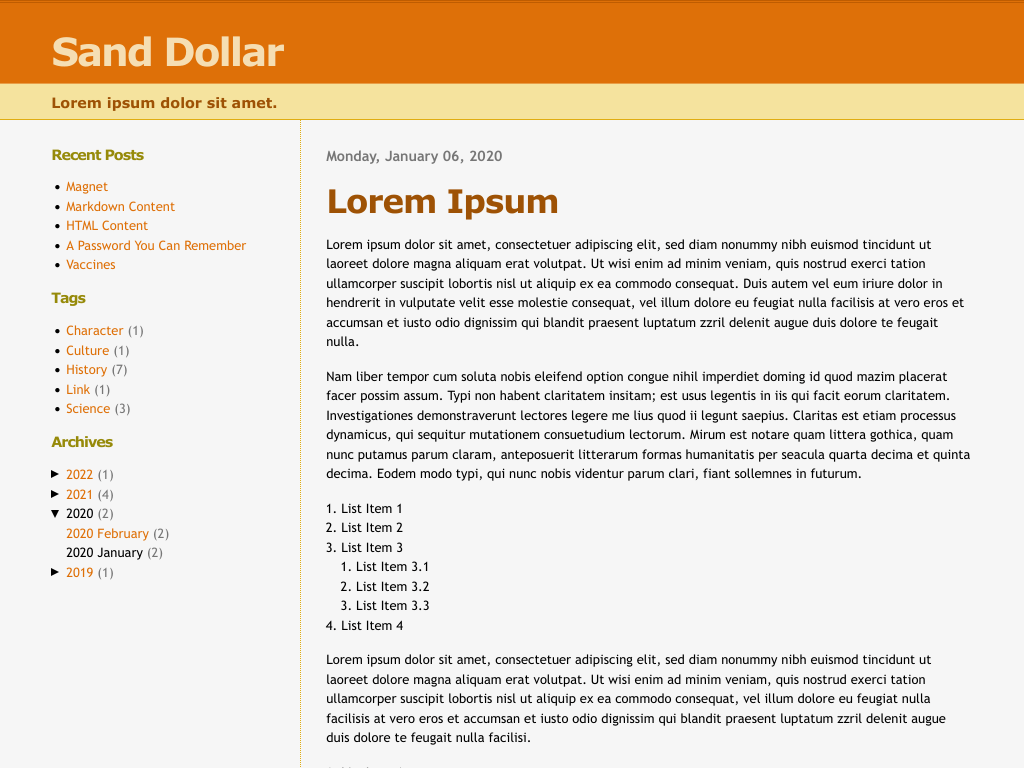
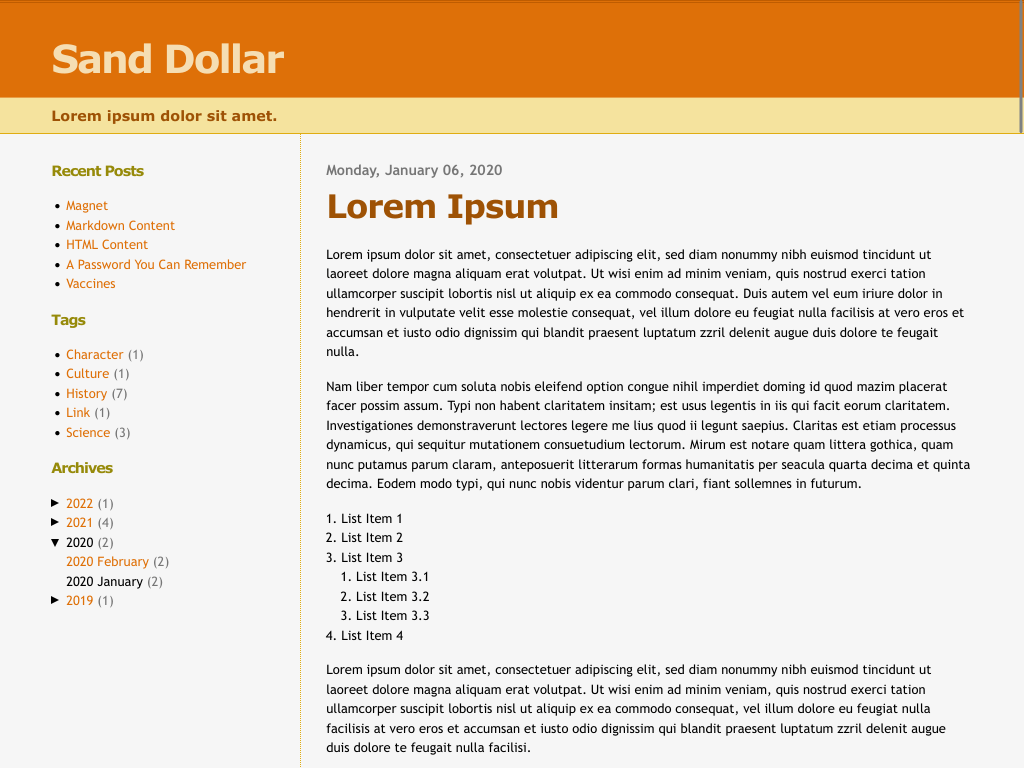
Update

Changed region(s): [[0.0, 0.0, 1.0, 1.0]]

diff --git a/index.min.css b/index.min.css
@@ -1,1 +1,1 @@
-/*! Originally developed by the Blogger Team <https://www.blogger.com> on 23 February 2004. */*{background:0 0;border:0;box-sizing:border-box;color:inherit;font:inherit;margin:0;padding:0;text-align:inherit;text-decoration:none;word-wrap:break-word}:root{background:#f6f6f6;color:#000;font:400 13px/1.5 "Trebuchet MS",Trebuchet,Verdana,Geneva,sans-serif}[role=link],a{color:#de7008}[role=link] img,a img{background:red;padding:4px}[role=link]:focus,[role=link]:hover,a:focus,a:hover{color:#e0ad12;text-decoration:underline}[aria-current][role=link],[aria-disabled][role=link],a[aria-current],a[aria-disabled]{color:inherit;cursor:inherit;text-decoration:none}[aria-current][role=link]:visited,[aria-disabled][role=link]:visited,a[aria-current]:visited,a[aria-disabled]:visited{color:inherit}abbr{cursor:help}b,dt,h1,h2,h3,h4,h5,h6,strong,th{font-weight:700}dfn,em,i,var{font-style:italic}[role=deletion],del,s{text-decoration:line-through}[role=insertion],ins,u{text-decoration:underline}blockquote{font-size:1.185rem;margin-left:1.15rem;margin-right:1.15rem}caption,figcaption{color:#777;margin:.5rem 0 0;text-align:center}code{color:#9e5205;font-family:"Courier New",Courier,monospace}details summary{display:block;padding-left:1.15rem;position:relative;text-decoration:none!important}details summary::before{border-bottom:4px solid transparent;border-left:8px solid;border-right:0 solid transparent;border-top:4px solid transparent;content:"";height:0;left:0;margin-top:-4px;position:absolute;top:50%;width:0}details[open] summary::before{border-bottom:0 solid transparent;border-left:4px solid transparent;border-right:4px solid transparent;border-top:8px solid;margin-top:-3px}details[role=tree] ul{margin-top:0;list-style:none}details[role=tree]+[role=tree],legend+*{margin-top:0}[type=checkbox][role=button],[type=color][role=button],[type=file][role=button],[type=image][role=button],[type=radio][role=button],[type=range][role=button],button[type=checkbox],button[type=color],button[type=file],button[type=image],button[type=radio],button[type=range],details summary,input[type=checkbox],input[type=color],input[type=file],input[type=image],input[type=radio],input[type=range],label,select{cursor:pointer;user-select:none}dl,ol,ul{margin-left:1.15rem}dl{margin-right:1.15rem}fieldset{border:1px solid #e0ad12;padding:1.15rem}figure{text-align:center}figure img{display:block}h1,h2,h3,h4,h5,h6{font-family:Verdana,Geneva,sans-serif;letter-spacing:-1px;line-height:1.15}h1{font-size:310%}h2{font-size:250%}h3{font-size:200%}h4{font-size:160%}h5{font-size:130%}h6{font-size:110%}hr{border:0;border-top:1px dotted #e0ad12}legend{padding:0 .5rem}[role=mark],mark{background:#fea}img{height:auto;max-width:100%}ol{list-style:decimal}pre code{background:#f5e39e;border:1px solid #e0ad12;display:block;overflow:auto;padding:.5rem .75rem;white-space:pre-wrap}small,sub,sup{font-size:.79em}sub,sup{line-height:0}sub{vertical-align:sub}sup{vertical-align:super}table{border-collapse:collapse;table-layout:fixed;width:100%}table caption{caption-side:bottom}table td,table th{border:1px solid #e0ad12;padding:.25rem .5rem;vertical-align:top}table th{background:#f5e39e;color:#9e5205}ul{list-style:disc}audio,video{display:block;height:auto;width:100%}*+address,*+article,*+aside,*+blockquote,*+details,*+div,*+dl,*+dt,*+fieldset,*+figure,*+footer,*+form,*+h1,*+h2,*+h3,*+h4,*+h5,*+h6,*+header,*+hr,*+main,*+nav,*+ol,*+p,*+pre,*+section,*+table,*+ul{margin-top:1.15rem}[role=button],[type=button][role=button],[type=reset][role=button],[type=submit][role=button],button,button[type=button],button[type=reset],button[type=submit],input,input[type=button],input[type=reset],input[type=submit],select,textarea{accent-color:#de7008;background:#eee;border:1px solid #ccc;color:#000;display:inline-block;height:2rem;line-height:calc(2rem - 2px);outline:0;padding:0 .5rem;vertical-align:middle;width:12rem}[role=button],[type=button][role=button],[type=reset][role=button],[type=submit][role=button],button,button[type=button],button[type=reset],button[type=submit],input[type=button],input[type=reset],input[type=submit]{background:orange;border-width:0;color:#fff!important;cursor:pointer;font-weight:700;line-height:2rem;padding-left:.65rem;padding-right:.65rem;text-align:center;text-decoration:none!important;width:auto}[role=button]:focus,[role=button]:hover,button:focus,button:hover,input[type=button]:focus,input[type=button]:hover,input[type=reset]:focus,input[type=reset]:hover,input[type=submit]:focus,input[type=submit]:hover{background:#ffb93a}[role=button]::-moz-focus-inner,button::-moz-focus-inner,button[type=button]::-moz-focus-inner,button[type=reset]::-moz-focus-inner,button[type=submit]::-moz-focus-inner,input::-moz-focus-inner,input[type=button]::-moz-focus-inner,input[type=reset]::-moz-focus-inner,input[type=submit]::-moz-focus-inner{border:0;margin:0;outline:0;padding:0}[type=color][role=button],[type=image][role=button],button[type=color],button[type=image],input[type=color],input[type=image]{height:2.25rem;padding:0;width:2.25rem}[type=image][role=button],button[type=image],input[type=image]{height:auto;width:auto}[type=checkbox][role=button],[type=radio][role=button],button[type=checkbox],button[type=radio],input[type=checkbox],input[type=radio]{height:1rem;width:1rem}[type=checkbox][role=button],[type=file][role=button],[type=image][role=button],[type=radio][role=button],[type=range][role=button],button[type=checkbox],button[type=file],button[type=image],button[type=radio],button[type=range],input[type=checkbox],input[type=file],input[type=image],input[type=radio],input[type=range]{background:0 0;border:0;padding:0}::-moz-color-swatch{border:0}::-webkit-color-swatch{border:0}::-webkit-color-swatch-wrapper{padding:0}textarea{height:auto;line-height:inherit;padding-bottom:.25rem;padding-top:.25rem;resize:vertical}[role=status]{color:#777;font-weight:400}:disabled{opacity:.5;cursor:not-allowed}[role=alert]{background:rgba(0,0,0,.125);border:1px solid rgba(0,0,0,.5);padding:.25rem .75rem;text-align:center}[role=alert]+article{margin-top:1rem}[role=alert] [role=link],[role=alert] a{text-decoration:underline}.comments,.comments-body,.comments-footer,.form-comment{margin-top:1.15rem}.comments h3,.comments h4{font-size:125%}.comment-header .comment-author{color:inherit;font:inherit;font-weight:700}.form-comment p [role=button]+br+small,.form-comment p button+br+small,.form-comment p input+br+small,.form-comment p select+br+small,.form-comment p textarea+br+small{color:#777}[role=search] [role=button],[role=search] button,[role=search] input{flex:1;min-width:0}[role=search] [role=button]+[role=button],[role=search] [role=button]+[type=button][role=button],[role=search] [role=button]+[type=reset][role=button],[role=search] [role=button]+[type=submit][role=button],[role=search] [role=button]+button,[role=search] [role=button]+button[type=button],[role=search] [role=button]+button[type=reset],[role=search] [role=button]+button[type=submit],[role=search] [role=button]+input[type=button],[role=search] [role=button]+input[type=reset],[role=search] [role=button]+input[type=submit],[role=search] [type=button][role=button]+[role=button],[role=search] [type=button][role=button]+[type=button][role=button],[role=search] [type=button][role=button]+[type=reset][role=button],[role=search] [type=button][role=button]+[type=submit][role=button],[role=search] [type=button][role=button]+button,[role=search] [type=button][role=button]+button[type=button],[role=search] [type=button][role=button]+button[type=reset],[role=search] [type=button][role=button]+button[type=submit],[role=search] [type=button][role=button]+input[type=button],[role=search] [type=button][role=button]+input[type=reset],[role=search] [type=button][role=button]+input[type=submit],[role=search] [type=reset][role=button]+[role=button],[role=search] [type=reset][role=button]+[type=button][role=button],[role=search] [type=reset][role=button]+[type=reset][role=button],[role=search] [type=reset][role=button]+[type=submit][role=button],[role=search] [type=reset][role=button]+button,[role=search] [type=reset][role=button]+button[type=button],[role=search] [type=reset][role=button]+button[type=reset],[role=search] [type=reset][role=button]+button[type=submit],[role=search] [type=reset][role=button]+input[type=button],[role=search] [type=reset][role=button]+input[type=reset],[role=search] [type=reset][role=button]+input[type=submit],[role=search] [type=submit][role=button]+[role=button],[role=search] [type=submit][role=button]+[type=button][role=button],[role=search] [type=submit][role=button]+[type=reset][role=button],[role=search] [type=submit][role=button]+[type=submit][role=button],[role=search] [type=submit][role=button]+button,[role=search] [type=submit][role=button]+button[type=button],[role=search] [type=submit][role=button]+button[type=reset],[role=search] [type=submit][role=button]+button[type=submit],[role=search] [type=submit][role=button]+input[type=button],[role=search] [type=submit][role=button]+input[type=reset],[role=search] [type=submit][role=button]+input[type=submit],[role=search] button+[role=button],[role=search] button+[type=button][role=button],[role=search] button+[type=reset][role=button],[role=search] button+[type=submit][role=button],[role=search] button+button,[role=search] button+button[type=button],[role=search] button+button[type=reset],[role=search] button+button[type=submit],[role=search] button+input[type=button],[role=search] button+input[type=reset],[role=search] button+input[type=submit],[role=search] button[type=button]+[role=button],[role=search] button[type=button]+[type=button][role=button],[role=search] button[type=button]+[type=reset][role=button],[role=search] button[type=button]+[type=submit][role=button],[role=search] button[type=button]+button,[role=search] button[type=button]+button[type=button],[role=search] button[type=button]+button[type=reset],[role=search] button[type=button]+button[type=submit],[role=search] button[type=button]+input[type=button],[role=search] button[type=button]+input[type=reset],[role=search] button[type=button]+input[type=submit],[role=search] button[type=reset]+[role=button],[role=search] button[type=reset]+[type=button][role=button],[role=search] button[type=reset]+[type=reset][role=button],[role=search] button[type=reset]+[type=submit][role=button],[role=search] button[type=reset]+button,[role=search] button[type=reset]+button[type=button],[role=search] button[type=reset]+button[type=reset],[role=search] button[type=reset]+button[type=submit],[role=search] button[type=reset]+input[type=button],[role=search] button[type=reset]+input[type=reset],[role=search] button[type=reset]+input[type=submit],[role=search] button[type=submit]+[role=button],[role=search] button[type=submit]+[type=button][role=button],[role=search] button[type=submit]+[type=reset][role=button],[role=search] button[type=submit]+[type=submit][role=button],[role=search] button[type=submit]+button,[role=search] button[type=submit]+button[type=button],[role=search] button[type=submit]+button[type=reset],[role=search] button[type=submit]+button[type=submit],[role=search] button[type=submit]+input[type=button],[role=search] button[type=submit]+input[type=reset],[role=search] button[type=submit]+input[type=submit],[role=search] input+[role=button],[role=search] input+[type=button][role=button],[role=search] input+[type=reset][role=button],[role=search] input+[type=submit][role=button],[role=search] input+button,[role=search] input+button[type=button],[role=search] input+button[type=reset],[role=search] input+button[type=submit],[role=search] input+input[type=button],[role=search] input+input[type=reset],[role=search] input+input[type=submit],[role=search] input[type=button]+[role=button],[role=search] input[type=button]+[type=button][role=button],[role=search] input[type=button]+[type=reset][role=button],[role=search] input[type=button]+[type=submit][role=button],[role=search] input[type=button]+button,[role=search] input[type=button]+button[type=button],[role=search] input[type=button]+button[type=reset],[role=search] input[type=button]+button[type=submit],[role=search] input[type=button]+input[type=button],[role=search] input[type=button]+input[type=reset],[role=search] input[type=button]+input[type=submit],[role=search] input[type=reset]+[role=button],[role=search] input[type=reset]+[type=button][role=button],[role=search] input[type=reset]+[type=reset][role=button],[role=search] input[type=reset]+[type=submit][role=button],[role=search] input[type=reset]+button,[role=search] input[type=reset]+button[type=button],[role=search] input[type=reset]+button[type=reset],[role=search] input[type=reset]+button[type=submit],[role=search] input[type=reset]+input[type=button],[role=search] input[type=reset]+input[type=reset],[role=search] input[type=reset]+input[type=submit],[role=search] input[type=submit]+[role=button],[role=search] input[type=submit]+[type=button][role=button],[role=search] input[type=submit]+[type=reset][role=button],[role=search] input[type=submit]+[type=submit][role=button],[role=search] input[type=submit]+button,[role=search] input[type=submit]+button[type=button],[role=search] input[type=submit]+button[type=reset],[role=search] input[type=submit]+button[type=submit],[role=search] input[type=submit]+input[type=button],[role=search] input[type=submit]+input[type=reset],[role=search] input[type=submit]+input[type=submit]{flex:initial}[role=search] p{display:flex;flex-wrap:wrap;gap:.5rem}[role=doc-toc] [role=heading]{padding-left:1.15rem}[role=doc-toc] [role=doc-pagelist] li::after,[role=doc-toc] [role=doc-pagelist] li::before{border-color:#e0ad12}[role=doc-toc] [role=doc-pagelist] li:last-child::after{background:#f6f6f6}body>div{margin:0 auto}body>div>footer{background:#eee;border-top:1px dotted #e0ad12;color:#9e5205;display:flex;flex-wrap:wrap;gap:1.15rem;justify-content:space-between;margin:0;padding:15px 5%}body>div>footer p{margin:0}body>div>header{background:#de7008;border-top:3px double #bf5c00;color:wheat}body>div>header h1{border-bottom:1px solid #e89e47;color:inherit;font-size:300%;letter-spacing:-2px;padding:25px 5% 10px}body>div>header h1 [role=link],body>div>header h1 [role=link]:focus,body>div>header h1 [role=link]:focus:visited,body>div>header h1 [role=link]:hover,body>div>header h1 [role=link]:hover:visited,body>div>header h1 a,body>div>header h1 a:focus,body>div>header h1 a:focus:visited,body>div>header h1 a:hover,body>div>header h1 a:hover:visited,body>div>header+div>main>article>header h2 [role=link],body>div>header+div>main>article>header h2 a,body>div>header+div>main>article>header h3 [role=link],body>div>header+div>main>article>header h3 a,body>div>nav+div>main>article>header h2 [role=link],body>div>nav+div>main>article>header h2 a,body>div>nav+div>main>article>header h3 [role=link],body>div>nav+div>main>article>header h3 a{color:inherit}body>div>header p{background:#f5e39e;border-bottom:1px solid #e0ad12;color:#9e5205;font-family:Verdana,Geneva,sans-serif;font-size:110%;font-weight:700;margin:0;padding:7px 5%}body>div>nav{background:#fcfcfc;border-bottom:1px dotted #e0ad12;color:#9e5205;font-family:Verdana,Geneva,sans-serif;font-size:110%;font-weight:700;line-height:3rem;margin:0;padding:0 5%}body>div>nav>ul{display:flex;flex-wrap:wrap;gap:2rem;list-style:none;margin:0;padding:0}body>div>nav>ul>li>[role=link],body>div>nav>ul>li>a{display:block}body>div>nav>ul>li>[role=link]:focus,body>div>nav>ul>li>[role=link]:hover,body>div>nav>ul>li>a:focus,body>div>nav>ul>li>a:hover{text-decoration:none}body>div>header+div,body>div>nav+div{display:flex;margin:0 5%;max-width:1024px}body>div>header+div>aside,body>div>nav+div>aside{border-right:1px dotted #e0ad12;margin:0;order:-1;padding:25px 25px 25px 0;width:250px}body>div>header+div>aside>div li [role=status]::after,body>div>header+div>aside>div summary [role=status]::after,body>div>nav+div>aside>div li [role=status]::after,body>div>nav+div>aside>div summary [role=status]::after{content:")"}body>div>header+div>aside>div li [role=status]::before,body>div>header+div>aside>div summary [role=status]::before,body>div>nav+div>aside>div li [role=status]::before,body>div>nav+div>aside>div summary [role=status]::before{content:"("}body>div>header+div>aside>div::after,body>div>header+div>main>article>div::after,body>div>nav+div>aside>div::after,body>div>nav+div>main>article>div::after{clear:both;content:"";display:table}body>div>header+div>aside>div h3,body>div>nav+div>aside>div h3{color:#968a0a;font-size:110%}body>div>header+div>main,body>div>nav+div>main{flex:1;max-width:800px;min-width:0;padding:25px 0 25px 25px}body>div>header+div>main>article>header h2,body>div>header+div>main>article>header h3,body>div>nav+div>main>article>header h2,body>div>nav+div>main>article>header h3{color:#9e5205}body>div>header+div>main>article>header h2 [role=link]:focus,body>div>header+div>main>article>header h2 [role=link]:hover,body>div>header+div>main>article>header h2 a:focus,body>div>header+div>main>article>header h2 a:hover,body>div>header+div>main>article>header h3 [role=link]:focus,body>div>header+div>main>article>header h3 [role=link]:hover,body>div>header+div>main>article>header h3 a:focus,body>div>header+div>main>article>header h3 a:hover,body>div>nav+div>main>article>header h2 [role=link]:focus,body>div>nav+div>main>article>header h2 [role=link]:hover,body>div>nav+div>main>article>header h2 a:focus,body>div>nav+div>main>article>header h2 a:hover,body>div>nav+div>main>article>header h3 [role=link]:focus,body>div>nav+div>main>article>header h3 [role=link]:hover,body>div>nav+div>main>article>header h3 a:focus,body>div>nav+div>main>article>header h3 a:hover{color:#000}body>div>header+div>main>article>header p time,body>div>nav+div>main>article>header p time{color:#777;display:block;font-size:110%;font-weight:700}body>div>header+div>main>article+nav,body>div>nav+div>main>article+nav{display:flex;justify-content:space-between}
+/*! Originally developed by the Blogger Team <https://www.blogger.com> on 23 February 2004. */*{background:0 0;border:0;box-sizing:border-box;color:inherit;font:inherit;margin:0;padding:0;text-align:inherit;text-decoration:none;word-wrap:break-word}:root{background:#f6f6f6;color:#000;font:400 13px/1.5 "Trebuchet MS",Trebuchet,Verdana,Geneva,sans-serif}[role=link],a{color:#de7008}[role=link] img,a img{background:red;padding:4px}[role=link]:focus,[role=link]:hover,a:focus,a:hover{color:#e0ad12;text-decoration:underline}[aria-current][role=link],[aria-disabled][role=link],a[aria-current],a[aria-disabled]{color:inherit;cursor:inherit;text-decoration:none}[aria-current][role=link]:visited,[aria-disabled][role=link]:visited,a[aria-current]:visited,a[aria-disabled]:visited{color:inherit}abbr{cursor:help}b,dt,h1,h2,h3,h4,h5,h6,strong,th{font-weight:700}dfn,em,i,var{font-style:italic}[role=deletion],del,s{text-decoration:line-through}[role=insertion],ins,u{text-decoration:underline}blockquote{font-size:1.185rem;margin-left:1.15rem;margin-right:1.15rem}caption,figcaption{color:#777;margin:.5rem 0 0;text-align:center}code{color:#9e5205;font-family:"Courier New",Courier,monospace}details summary{display:block;padding-left:1.15rem;position:relative;text-decoration:none!important}details summary::before{border-bottom:4px solid transparent;border-left:8px solid;border-right:0 solid transparent;border-top:4px solid transparent;content:"";height:0;left:0;margin-top:-4px;position:absolute;top:50%;width:0}details[open] summary::before{border-bottom:0 solid transparent;border-left:4px solid transparent;border-right:4px solid transparent;border-top:8px solid;margin-top:-3px}details[role=tree] ul{margin-top:0;list-style:none}details[role=tree]+[role=tree],legend+*{margin-top:0}[type=checkbox][role=button],[type=color][role=button],[type=file][role=button],[type=image][role=button],[type=radio][role=button],[type=range][role=button],button[type=checkbox],button[type=color],button[type=file],button[type=image],button[type=radio],button[type=range],details summary,input[type=checkbox],input[type=color],input[type=file],input[type=image],input[type=radio],input[type=range],label,select{cursor:pointer;user-select:none}dl,ol,ul{margin-left:1.15rem}dl{margin-right:1.15rem}fieldset{border:1px solid #e0ad12;padding:1.15rem}figure{text-align:center}figure img{display:block}h1,h2,h3,h4,h5,h6{font-family:Verdana,Geneva,sans-serif;letter-spacing:-1px}h1{font-size:310%}h2{font-size:250%}h3{font-size:200%}h4{font-size:160%}h5{font-size:130%}h6{font-size:110%}hr{border:0;border-top:1px dotted #e0ad12}legend{padding:0 .5rem}[role=mark],mark{background:#fea}img{height:auto;max-width:100%}ol{list-style:decimal}pre code{background:#f5e39e;border:1px solid #e0ad12;display:block;overflow:auto;padding:.5rem .75rem;white-space:pre-wrap}small,sub,sup{font-size:.79em}sub,sup{line-height:0}sub{vertical-align:sub}sup{vertical-align:super}table{border-collapse:collapse;table-layout:fixed;width:100%}table caption{caption-side:bottom}table td,table th{border:1px solid #e0ad12;padding:.25rem .5rem;vertical-align:top}table th{background:#f5e39e;color:#9e5205}ul{list-style:disc}audio,video{display:block;height:auto;width:100%}*+address,*+article,*+aside,*+blockquote,*+details,*+div,*+dl,*+dt,*+fieldset,*+figure,*+footer,*+form,*+h1,*+h2,*+h3,*+h4,*+h5,*+h6,*+header,*+hr,*+main,*+nav,*+ol,*+p,*+pre,*+section,*+table,*+ul{margin-top:1.15rem}[role=button],[type=button][role=button],[type=reset][role=button],[type=submit][role=button],button,button[type=button],button[type=reset],button[type=submit],input,input[type=button],input[type=reset],input[type=submit],select,textarea{accent-color:#de7008;background:#eee;border:1px solid #ccc;color:#000;display:inline-block;height:2rem;line-height:calc(2rem - 2px);outline:0;padding:0 .5rem;vertical-align:middle;width:12rem}[role=button],[type=button][role=button],[type=reset][role=button],[type=submit][role=button],button,button[type=button],button[type=reset],button[type=submit],input[type=button],input[type=reset],input[type=submit]{background:orange;border-width:0;color:#fff!important;cursor:pointer;font-weight:700;line-height:2rem;padding-left:.65rem;padding-right:.65rem;text-align:center;text-decoration:none!important;width:auto}[role=button]:focus,[role=button]:hover,button:focus,button:hover,input[type=button]:focus,input[type=button]:hover,input[type=reset]:focus,input[type=reset]:hover,input[type=submit]:focus,input[type=submit]:hover{background:#ffb93a}[role=button]::-moz-focus-inner,button::-moz-focus-inner,button[type=button]::-moz-focus-inner,button[type=reset]::-moz-focus-inner,button[type=submit]::-moz-focus-inner,input::-moz-focus-inner,input[type=button]::-moz-focus-inner,input[type=reset]::-moz-focus-inner,input[type=submit]::-moz-focus-inner{border:0;margin:0;outline:0;padding:0}[type=color][role=button],[type=image][role=button],button[type=color],button[type=image],input[type=color],input[type=image]{height:2.25rem;padding:0;width:2.25rem}[type=image][role=button],button[type=image],input[type=image]{height:auto;width:auto}[type=checkbox][role=button],[type=radio][role=button],button[type=checkbox],button[type=radio],input[type=checkbox],input[type=radio]{height:1rem;width:1rem}[type=checkbox][role=button],[type=file][role=button],[type=image][role=button],[type=radio][role=button],[type=range][role=button],button[type=checkbox],button[type=file],button[type=image],button[type=radio],button[type=range],input[type=checkbox],input[type=file],input[type=image],input[type=radio],input[type=range]{background:0 0;border:0;padding:0}::-moz-color-swatch{border:0}::-webkit-color-swatch{border:0}::-webkit-color-swatch-wrapper{padding:0}textarea{height:auto;line-height:inherit;padding-bottom:.25rem;padding-top:.25rem;resize:vertical}[role=status]{color:#777;font-weight:400}:disabled{opacity:.5;cursor:not-allowed}[role=alert]{background:rgba(0,0,0,.125);border:1px solid rgba(0,0,0,.5);padding:.25rem .75rem;text-align:center}[role=alert]+article{margin-top:1rem}[role=alert] [role=link],[role=alert] a{text-decoration:underline}.comments,.comments-body,.comments-footer,.form-comment{margin-top:1.15rem}.comments h3,.comments h4{font-size:125%}.comment-header .comment-author{color:inherit;font:inherit;font-weight:700;letter-spacing:0}.form-comment p [role=button]+br+small,.form-comment p button+br+small,.form-comment p input+br+small,.form-comment p select+br+small,.form-comment p textarea+br+small{color:#777}[role=search] [role=button],[role=search] button,[role=search] input{flex:1;min-width:0}[role=search] [role=button]+[role=button],[role=search] [role=button]+[type=button][role=button],[role=search] [role=button]+[type=reset][role=button],[role=search] [role=button]+[type=submit][role=button],[role=search] [role=button]+button,[role=search] [role=button]+button[type=button],[role=search] [role=button]+button[type=reset],[role=search] [role=button]+button[type=submit],[role=search] [role=button]+input[type=button],[role=search] [role=button]+input[type=reset],[role=search] [role=button]+input[type=submit],[role=search] [type=button][role=button]+[role=button],[role=search] [type=button][role=button]+[type=button][role=button],[role=search] [type=button][role=button]+[type=reset][role=button],[role=search] [type=button][role=button]+[type=submit][role=button],[role=search] [type=button][role=button]+button,[role=search] [type=button][role=button]+button[type=button],[role=search] [type=button][role=button]+button[type=reset],[role=search] [type=button][role=button]+button[type=submit],[role=search] [type=button][role=button]+input[type=button],[role=search] [type=button][role=button]+input[type=reset],[role=search] [type=button][role=button]+input[type=submit],[role=search] [type=reset][role=button]+[role=button],[role=search] [type=reset][role=button]+[type=button][role=button],[role=search] [type=reset][role=button]+[type=reset][role=button],[role=search] [type=reset][role=button]+[type=submit][role=button],[role=search] [type=reset][role=button]+button,[role=search] [type=reset][role=button]+button[type=button],[role=search] [type=reset][role=button]+button[type=reset],[role=search] [type=reset][role=button]+button[type=submit],[role=search] [type=reset][role=button]+input[type=button],[role=search] [type=reset][role=button]+input[type=reset],[role=search] [type=reset][role=button]+input[type=submit],[role=search] [type=submit][role=button]+[role=button],[role=search] [type=submit][role=button]+[type=button][role=button],[role=search] [type=submit][role=button]+[type=reset][role=button],[role=search] [type=submit][role=button]+[type=submit][role=button],[role=search] [type=submit][role=button]+button,[role=search] [type=submit][role=button]+button[type=button],[role=search] [type=submit][role=button]+button[type=reset],[role=search] [type=submit][role=button]+button[type=submit],[role=search] [type=submit][role=button]+input[type=button],[role=search] [type=submit][role=button]+input[type=reset],[role=search] [type=submit][role=button]+input[type=submit],[role=search] button+[role=button],[role=search] button+[type=button][role=button],[role=search] button+[type=reset][role=button],[role=search] button+[type=submit][role=button],[role=search] button+button,[role=search] button+button[type=button],[role=search] button+button[type=reset],[role=search] button+button[type=submit],[role=search] button+input[type=button],[role=search] button+input[type=reset],[role=search] button+input[type=submit],[role=search] button[type=button]+[role=button],[role=search] button[type=button]+[type=button][role=button],[role=search] button[type=button]+[type=reset][role=button],[role=search] button[type=button]+[type=submit][role=button],[role=search] button[type=button]+button,[role=search] button[type=button]+button[type=button],[role=search] button[type=button]+button[type=reset],[role=search] button[type=button]+button[type=submit],[role=search] button[type=button]+input[type=button],[role=search] button[type=button]+input[type=reset],[role=search] button[type=button]+input[type=submit],[role=search] button[type=reset]+[role=button],[role=search] button[type=reset]+[type=button][role=button],[role=search] button[type=reset]+[type=reset][role=button],[role=search] button[type=reset]+[type=submit][role=button],[role=search] button[type=reset]+button,[role=search] button[type=reset]+button[type=button],[role=search] button[type=reset]+button[type=reset],[role=search] button[type=reset]+button[type=submit],[role=search] button[type=reset]+input[type=button],[role=search] button[type=reset]+input[type=reset],[role=search] button[type=reset]+input[type=submit],[role=search] button[type=submit]+[role=button],[role=search] button[type=submit]+[type=button][role=button],[role=search] button[type=submit]+[type=reset][role=button],[role=search] button[type=submit]+[type=submit][role=button],[role=search] button[type=submit]+button,[role=search] button[type=submit]+button[type=button],[role=search] button[type=submit]+button[type=reset],[role=search] button[type=submit]+button[type=submit],[role=search] button[type=submit]+input[type=button],[role=search] button[type=submit]+input[type=reset],[role=search] button[type=submit]+input[type=submit],[role=search] input+[role=button],[role=search] input+[type=button][role=button],[role=search] input+[type=reset][role=button],[role=search] input+[type=submit][role=button],[role=search] input+button,[role=search] input+button[type=button],[role=search] input+button[type=reset],[role=search] input+button[type=submit],[role=search] input+input[type=button],[role=search] input+input[type=reset],[role=search] input+input[type=submit],[role=search] input[type=button]+[role=button],[role=search] input[type=button]+[type=button][role=button],[role=search] input[type=button]+[type=reset][role=button],[role=search] input[type=button]+[type=submit][role=button],[role=search] input[type=button]+button,[role=search] input[type=button]+button[type=button],[role=search] input[type=button]+button[type=reset],[role=search] input[type=button]+button[type=submit],[role=search] input[type=button]+input[type=button],[role=search] input[type=button]+input[type=reset],[role=search] input[type=button]+input[type=submit],[role=search] input[type=reset]+[role=button],[role=search] input[type=reset]+[type=button][role=button],[role=search] input[type=reset]+[type=reset][role=button],[role=search] input[type=reset]+[type=submit][role=button],[role=search] input[type=reset]+button,[role=search] input[type=reset]+button[type=button],[role=search] input[type=reset]+button[type=reset],[role=search] input[type=reset]+button[type=submit],[role=search] input[type=reset]+input[type=button],[role=search] input[type=reset]+input[type=reset],[role=search] input[type=reset]+input[type=submit],[role=search] input[type=submit]+[role=button],[role=search] input[type=submit]+[type=button][role=button],[role=search] input[type=submit]+[type=reset][role=button],[role=search] input[type=submit]+[type=submit][role=button],[role=search] input[type=submit]+button,[role=search] input[type=submit]+button[type=button],[role=search] input[type=submit]+button[type=reset],[role=search] input[type=submit]+button[type=submit],[role=search] input[type=submit]+input[type=button],[role=search] input[type=submit]+input[type=reset],[role=search] input[type=submit]+input[type=submit]{flex:initial}[role=search] p{display:flex;flex-wrap:wrap;gap:.5rem}[role=doc-toc] [role=heading]{padding-left:1.15rem}[role=doc-toc] [role=doc-pagelist] li::after,[role=doc-toc] [role=doc-pagelist] li::before{border-color:#e0ad12}[role=doc-toc] [role=doc-pagelist] li:last-child::after{background:#f6f6f6}body>div{margin:0 auto}body>div>footer{background:#eee;border-top:1px dotted #e0ad12;color:#9e5205;display:flex;flex-wrap:wrap;gap:1.15rem;justify-content:space-between;margin:0;padding:15px 5%}body>div>footer p{margin:0}body>div>header{background:#de7008;border-top:3px double #bf5c00;color:wheat}body>div>header h1{border-bottom:1px solid #e89e47;color:inherit;font-size:300%;letter-spacing:-2px;padding:25px 5% 10px}body>div>header h1 [role=link],body>div>header h1 [role=link]:focus,body>div>header h1 [role=link]:focus:visited,body>div>header h1 [role=link]:hover,body>div>header h1 [role=link]:hover:visited,body>div>header h1 a,body>div>header h1 a:focus,body>div>header h1 a:focus:visited,body>div>header h1 a:hover,body>div>header h1 a:hover:visited,body>div>header+div>main>article>header h2 [role=link],body>div>header+div>main>article>header h2 a,body>div>header+div>main>article>header h3 [role=link],body>div>header+div>main>article>header h3 a,body>div>nav+div>main>article>header h2 [role=link],body>div>nav+div>main>article>header h2 a,body>div>nav+div>main>article>header h3 [role=link],body>div>nav+div>main>article>header h3 a{color:inherit}body>div>header p{background:#f5e39e;border-bottom:1px solid #e0ad12;color:#9e5205;font-family:Verdana,Geneva,sans-serif;font-size:110%;font-weight:700;margin:0;padding:7px 5%}body>div>nav{background:#fcfcfc;border-bottom:1px dotted #e0ad12;color:#9e5205;font-family:Verdana,Geneva,sans-serif;font-size:110%;font-weight:700;line-height:3rem;margin:0;padding:0 5%}body>div>nav>ul{display:flex;flex-wrap:wrap;gap:2rem;list-style:none;margin:0;padding:0}body>div>nav>ul>li>[role=link],body>div>nav>ul>li>a{display:block}body>div>nav>ul>li>[role=link]:focus,body>div>nav>ul>li>[role=link]:hover,body>div>nav>ul>li>a:focus,body>div>nav>ul>li>a:hover{text-decoration:none}body>div>header+div,body>div>nav+div{display:flex;margin:0 5%;max-width:1024px}body>div>header+div>aside,body>div>nav+div>aside{border-right:1px dotted #e0ad12;margin:0;order:-1;padding:25px 25px 25px 0;width:250px}body>div>header+div>aside>div li [role=status]::after,body>div>header+div>aside>div summary [role=status]::after,body>div>nav+div>aside>div li [role=status]::after,body>div>nav+div>aside>div summary [role=status]::after{content:")"}body>div>header+div>aside>div li [role=status]::before,body>div>header+div>aside>div summary [role=status]::before,body>div>nav+div>aside>div li [role=status]::before,body>div>nav+div>aside>div summary [role=status]::before{content:"("}body>div>header+div>aside>div::after,body>div>header+div>main>article>div::after,body>div>nav+div>aside>div::after,body>div>nav+div>main>article>div::after{clear:both;content:"";display:table}body>div>header+div>aside>div h3,body>div>nav+div>aside>div h3{color:#968a0a;font-size:110%}body>div>header+div>main,body>div>nav+div>main{flex:1;max-width:800px;min-width:0;padding:25px 0 25px 25px}body>div>header+div>main>article>header h2,body>div>header+div>main>article>header h3,body>div>nav+div>main>article>header h2,body>div>nav+div>main>article>header h3{color:#9e5205;margin-top:0}body>div>header+div>main>article>header h2 [role=link]:focus,body>div>header+div>main>article>header h2 [role=link]:hover,body>div>header+div>main>article>header h2 a:focus,body>div>header+div>main>article>header h2 a:hover,body>div>header+div>main>article>header h3 [role=link]:focus,body>div>header+div>main>article>header h3 [role=link]:hover,body>div>header+div>main>article>header h3 a:focus,body>div>header+div>main>article>header h3 a:hover,body>div>nav+div>main>article>header h2 [role=link]:focus,body>div>nav+div>main>article>header h2 [role=link]:hover,body>div>nav+div>main>article>header h2 a:focus,body>div>nav+div>main>article>header h2 a:hover,body>div>nav+div>main>article>header h3 [role=link]:focus,body>div>nav+div>main>article>header h3 [role=link]:hover,body>div>nav+div>main>article>header h3 a:focus,body>div>nav+div>main>article>header h3 a:hover{color:#000}body>div>header+div>main>article>header p time,body>div>nav+div>main>article>header p time{color:#777;display:block;font-size:110%;font-weight:700}body>div>header+div>main>article+nav,body>div>nav+div>main>article+nav{display:flex;justify-content:space-between}

diff --git a/index.css b/index.css
@@ -192,7 +192,6 @@ h5,
 h6 {
   font-family: Verdana, Geneva, sans-serif;
   letter-spacing: -1px;
-  line-height: 1.15;
 }
 
 h1 {
@@ -517,6 +516,7 @@ textarea {
   color: inherit;
   font: inherit;
   font-weight: bold;
+  letter-spacing: 0;
 }
 
 .form-comment p input + br + small,
@@ -823,6 +823,7 @@ body > div > header + div > main > article > header h3,
 body > div > nav + div > main > article > header h2,
 body > div > nav + div > main > article > header h3 {
   color: #9e5205;
+  margin-top: 0;
 }
 body > div > header + div > main > article > header h2 a,
 body > div > header + div > main > article > header h2 [role=link],

diff --git a/.factory/index.css.scss b/.factory/index.css.scss
@@ -186,7 +186,6 @@ h6 {
   @extend b;
   font-family: Verdana, Geneva, sans-serif;
   letter-spacing: -1px;
-  line-height: 1.15;
 }
 
 h1 {
@@ -599,6 +598,7 @@ body {
               h2,
               h3 {
                 color: #9e5205;
+                margin-top: 0;
                 a {
                   color: inherit;
                   &:focus,

diff --git a/.factory/_/x/comment.scss b/.factory/_/x/comment.scss
@@ -21,6 +21,7 @@
     color: inherit;
     font: inherit;
     font-weight: bold;
+    letter-spacing: 0;
   }
 }
 
